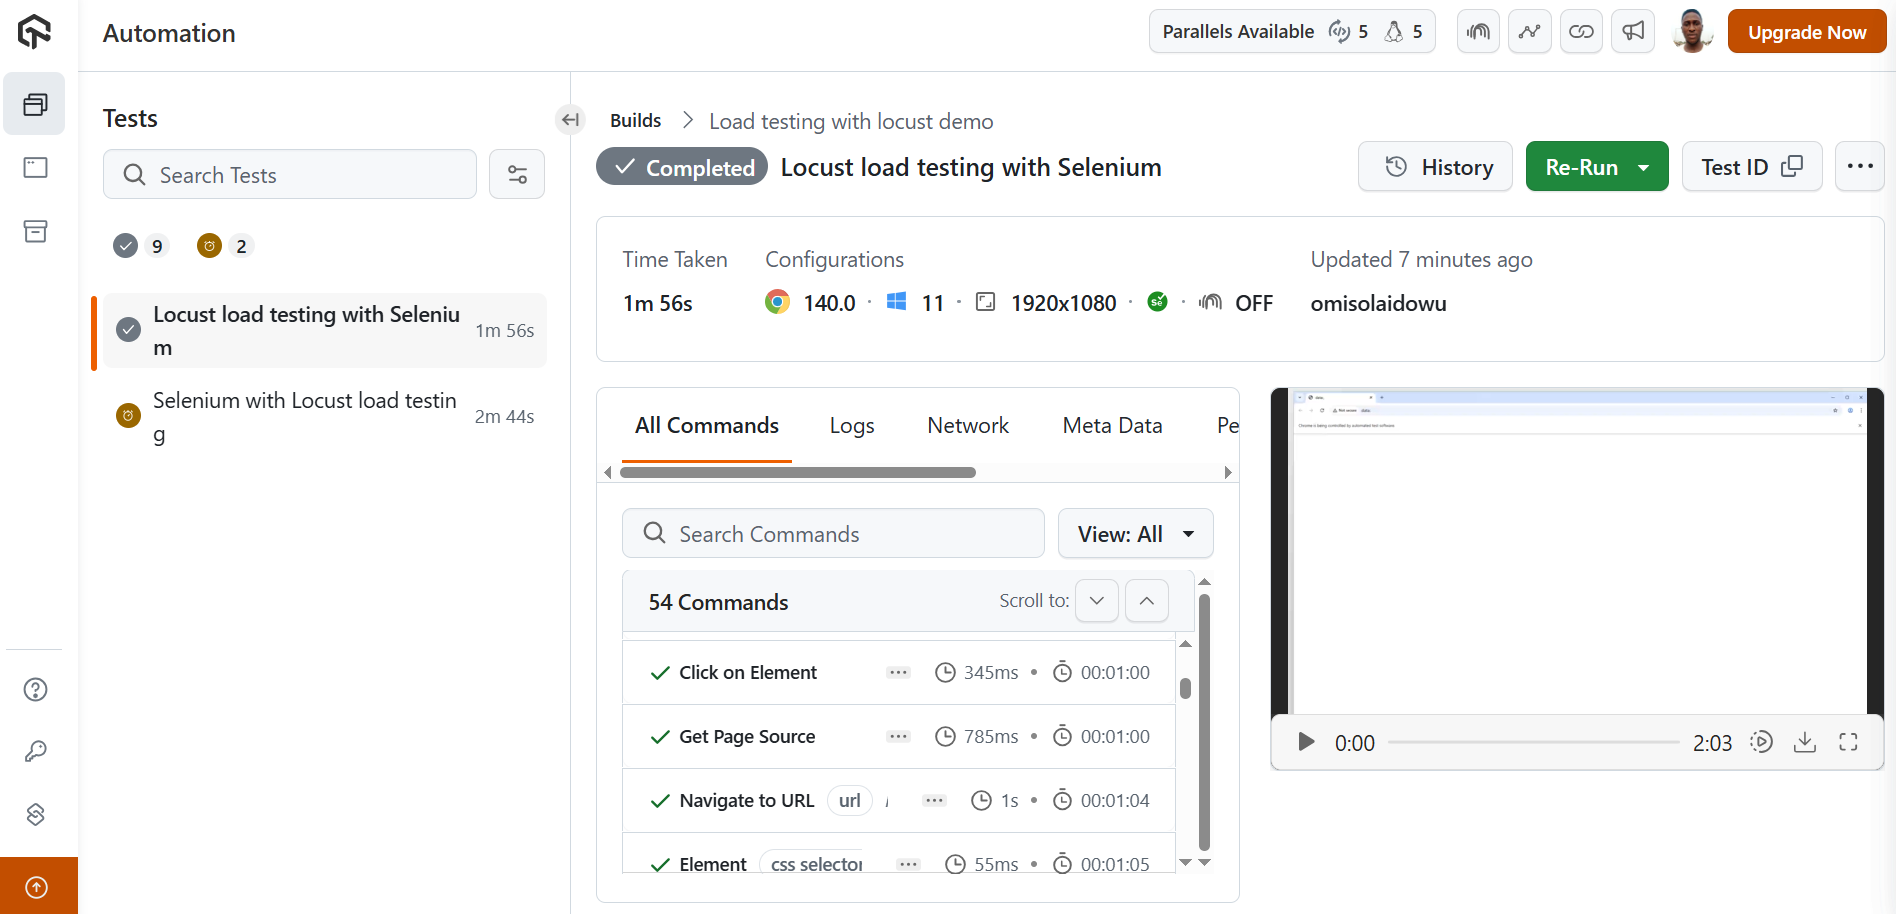
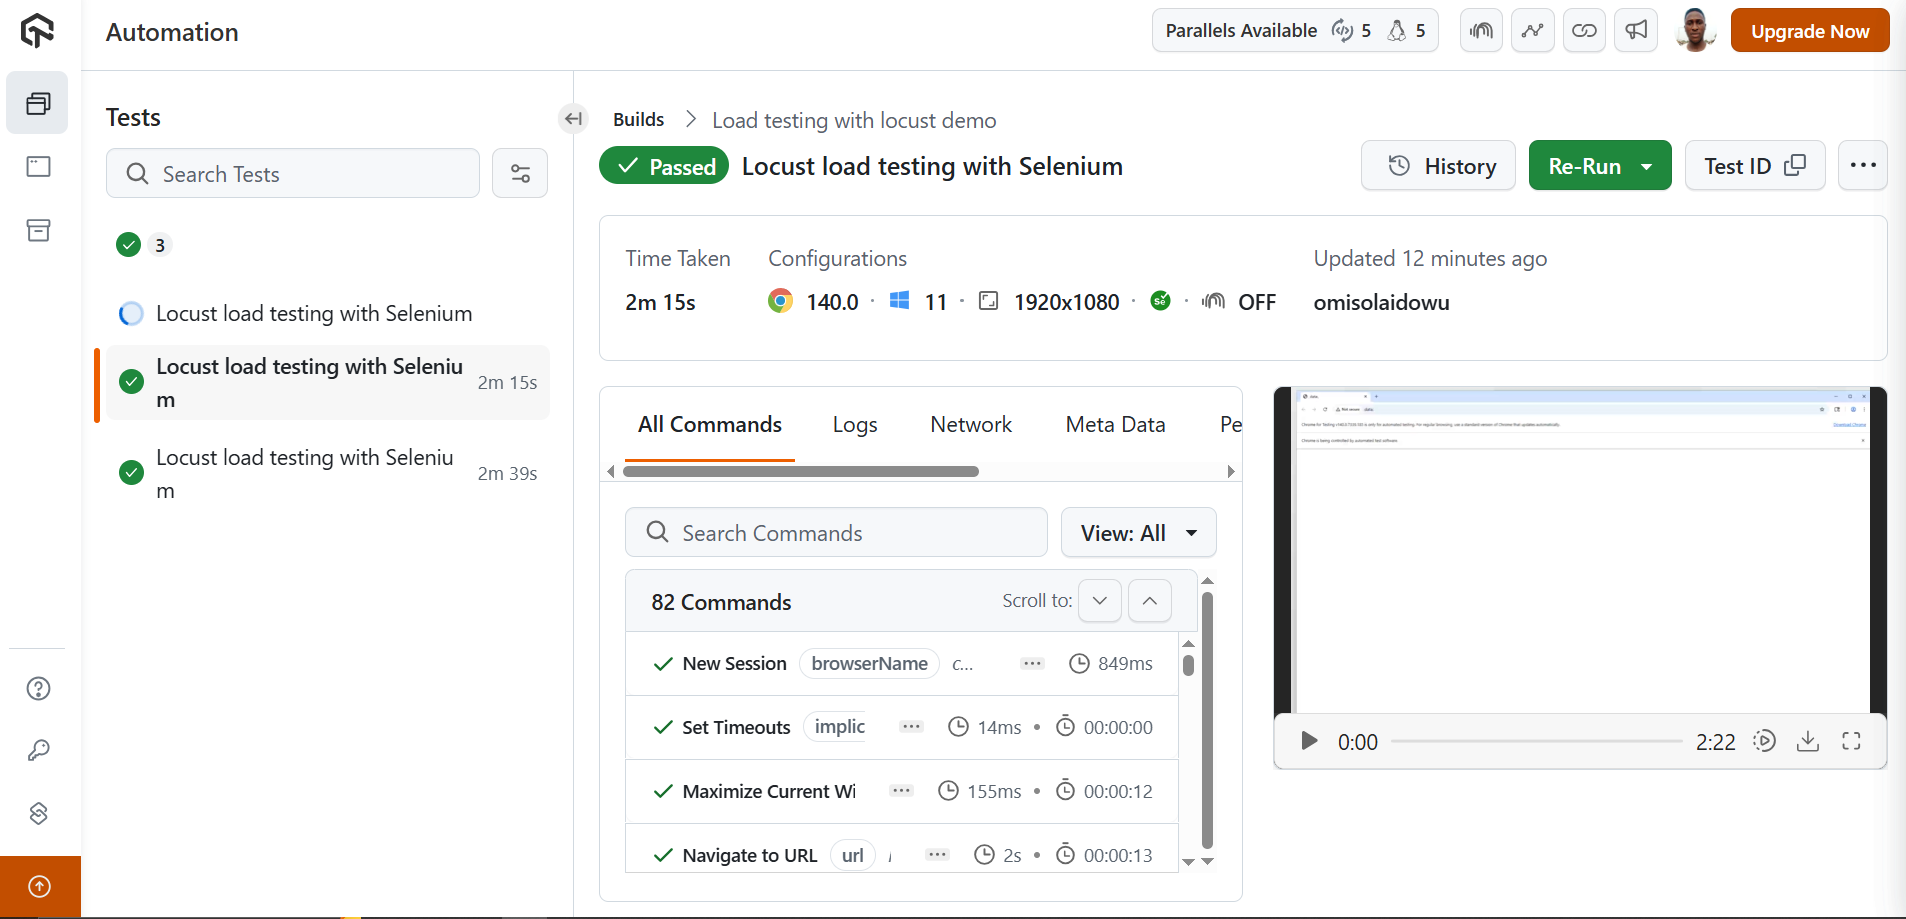
selenium automation included

diff --git a/locust_with_selenium.py b/locust_with_selenium.py
@@ -15,6 +15,7 @@ class SeleniumUser(User):
     def on_start(self):
         setting.setUp()
         self.driver = setting.driver
+        self.failed = False
 
     @task
     def load_homepage(self):
@@ -27,6 +28,7 @@ class SeleniumUser(User):
             size_bytes = len(html.encode("utf-8"))
         except Exception as e:
             exception = e
+            self.failed = True
         total_time = int((time.time() - start_time) * 1000)
         events.request.fire(
             request_type="SELENIUM",
@@ -54,6 +56,7 @@ class SeleniumUser(User):
             size_bytes = len(html.encode("utf-8"))
         except Exception as e:
             exception = e
+            self.failed = True
         total_time = int((time.time() - start_time) * 1000)
         events.request.fire(
             request_type="SELENIUM",
@@ -64,4 +67,10 @@ class SeleniumUser(User):
         )
 
     def on_stop(self):
-        setting.tearDown()
+        status = "failed" if self.failed else "passed"
+        try:
+            self.driver.execute_script(f"lambda-status={status}")
+        except Exception as e:
+            print(f"Could not set lambda-status: {e}")
+        finally:
+            setting.tearDown()
